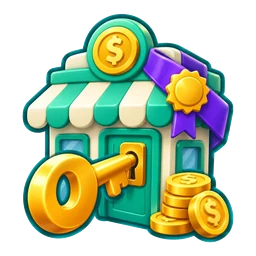
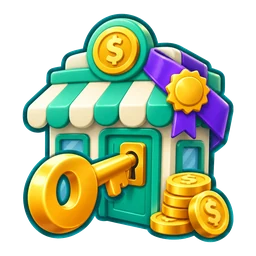
street: the full action art set (11 images)
Adds protect, money out, claim, give up, pay tenant, the two Record chips
(aimed at you, rent & upkeep) and the ordered stamp, in the saturated style of
the first three. Cut-out tolerance raised to 70 so soft generator glows leave
no halo; the first three are rebuilt with it.

diff --git a/tests/assets.test.js b/tests/assets.test.js
@@ -51,9 +51,9 @@ const families = [
     // The Street's action art: one picture per action (tiles, confirm sheet, Record chips).
     // Masters as generated; the two WebP sizes are derived by scripts/genDerivedAssets.py.
     // The count grows one approved image at a time.
-    ['street/actions/masters', '.png', 3],
-    ['street/actions', '.webp', 3],
-    ['street/actions/small', '.webp', 3],
+    ['street/actions/masters', '.png', 11],
+    ['street/actions', '.webp', 11],
+    ['street/actions/small', '.webp', 11],
 ];
 
 let verified = 0;

diff --git a/scripts/genDerivedAssets.py b/scripts/genDerivedAssets.py
@@ -125,10 +125,11 @@ def build_tutorial_webp(quality, force):
     return len(sources)
 
 
-def cut_out_flat_background(im, thresh=24):
+def cut_out_flat_background(im, thresh=70):
     """Flat background -> alpha, flood-filled from the four corners (the creature-art method).
 
-    Only the region CONNECTED to a corner is cleared, so white highlights inside the object
+    Tolerance 70, not the creature pipeline's 24: generators add a soft coloured glow round the
+    object, and 24 left it as a light halo. Only the region CONNECTED to a corner is cleared, so white highlights inside the object
     survive; the art prompts ask for a dark outline so the fill cannot leak inward."""
     from PIL import ImageDraw
     im = im.convert("RGBA")
